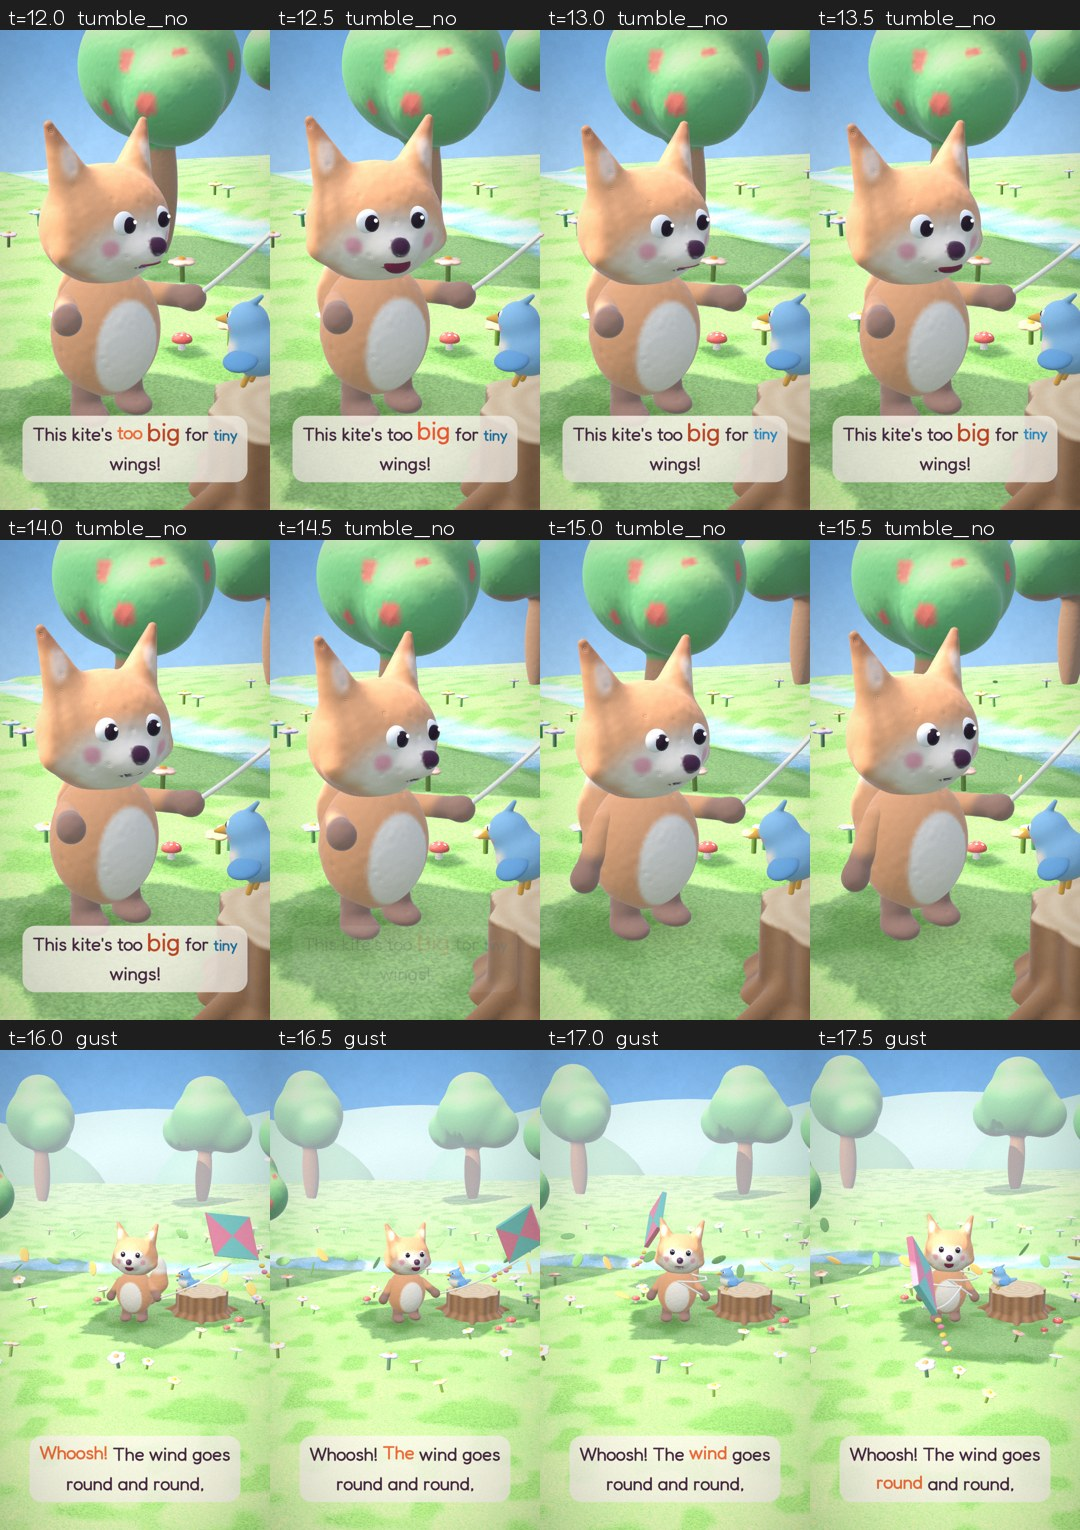
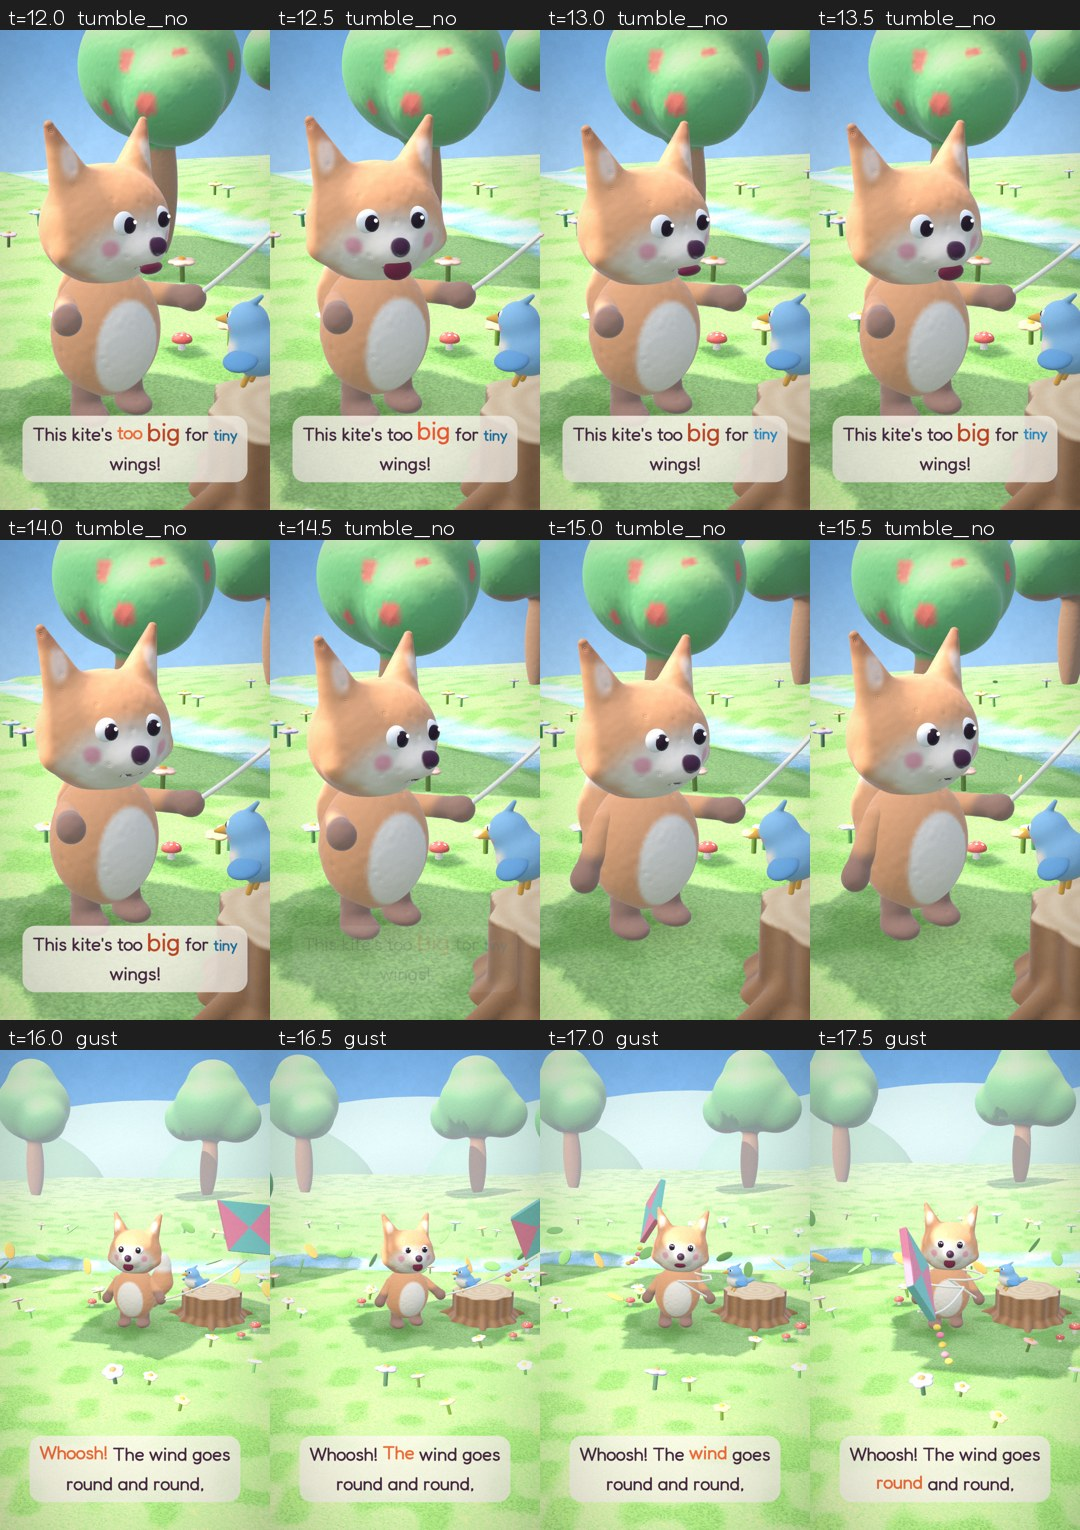
Fable 1: reviewer round 5 fixes (button camera follows the kite, finer head mesh, clean mouth)
Claude-Session: https://claude.ai/code/session_012DiEG3BG1auD4t8c7zPpV2

diff --git a/batches/01-fables-friendship/fable-01-tiny-pip-big-help/code/render.py b/batches/01-fables-friendship/fable-01-tiny-pip-big-help/code/render.py
@@ -299,7 +299,7 @@ def string_path(t, st, mats, kite_p, pip_beak):
 # ---------------- Pip ----------------
 PIP_FOOT = 0.060
 UP = np.array([0, PIP_FOOT, 0])
-PAW_TOP = 0.088
+PAW_TOP = 0.072
 HF_H = 0.42                                    # Pip's high-five hop height
 def _paw_table():
     """local hand height for arm0 side angles (fwd 0.35), to solve the paw raise that meets Pip"""
@@ -385,7 +385,7 @@ def pip_state(t, st, mats):
     if n == "moral":
         a, b = SH[n]
         hand = apply(arms[0], FOXD["arm0"]["hand"])
-        top = hand + np.array([0, 0.095, 0]) + UP
+        top = hand + np.array([0, PAW_TOP, 0]) + UP
         u = clampu(t, a, a + 0.6)
         if u < 1:
             start = on_ground(TPOS[0] + 1.3, TPOS[1] + 0.6)
@@ -404,7 +404,7 @@ def pip_state(t, st, mats):
         return top, 0.35, False, 0.0, True, ex
     # button: Pip grabs the loose string end and flies the kite up
     a, b = SH["button_crane"]
-    p0 = apply(fox_mats(tumble(a - 0.01))[2][0], FOXD["arm0"]["hand"]) + np.array([0, PAW_TOP, 0]) + UP
+    p0 = apply(fox_mats(tumble(a))[2][0], FOXD["arm0"]["hand"]) + np.array([0, PAW_TOP + 0.01, 0]) + UP
     g = GRAB_PT + UP + np.array([0.25, 0.03, 0.0])                           # just beside the string, next to the kite
     if t < a + GRAB:                                                        # round behind his head, then down to the string by the kite
         u = clampu(t, a, a + GRAB)
@@ -450,7 +450,7 @@ def camera(t):
         return fit_cam(tgt, lerp(64, 58, e), 14, 0.95, 1.3, fov=36, lift=0.1 if not WIDE else 0.06)
     if name == "gust":                                                      # wide low angle, slow push-in
         e = ease(u)
-        return fit_cam(np.array([TPOS[0], lerp(1.6, 1.3, e), TPOS[1]]), 4, lerp(16, 20, e), lerp(3.0, 2.3, e), lerp(2.6, 2.0, e))
+        return fit_cam(np.array([TPOS[0], lerp(1.5, 1.25, e), TPOS[1]]), 4, lerp(16, 20, e), lerp(2.6, 2.0, e), lerp(2.6, 2.0, e))
     if name == "topple":                                                    # medium side
         return fit_cam(np.array([TPOS[0], 0.85, TPOS[1]]), 28, 6, 1.5, 1.35)
     if name == "overhead_tangled":                                          # top-down: wrapped like a parcel
@@ -473,9 +473,13 @@ def camera(t):
         return fit_cam(np.array([TPOS[0] + 0.35, lerp(1.35, 1.45, e), TPOS[1]]), lerp(12, 6, e), 5, lerp(1.25, 1.05, e), lerp(1.4, 1.1, e))
     if name == "chorus":                                                    # medium front, both in frame for the dance
         return fit_cam(np.array([TPOS[0] + 0.35, 1.2, TPOS[1]]), 6, 6, 1.3, 1.35)
-    # button: crane up following the kite
+    # button: crane up, keeping Tumble, Pip and the climbing kite all in frame
     e = ease(u)
-    return fit_cam(np.array([TPOS[0] + 0.1, lerp(1.2, 2.6, e), TPOS[1] - 0.5]), 4, lerp(4, 18, e), lerp(1.7, 2.6, e), lerp(1.8, 2.6, e), lift=0.06)
+    kp, _ = kite_state(t, st)
+    cx = (st["x"] + kp[0]) / 2; cz = (st["z"] + kp[2]) / 2
+    hw = max(1.7, abs(kp[0] - st["x"]) / 2 + 0.9)
+    top = max(2.4, kp[1] + 0.7)
+    return fit_cam(np.array([cx, top / 2, cz]), 4, lerp(4, 10, e), hw, top / 2 + 0.25, lift=0.0 if not WIDE else -0.08)
 
 # ---------------- render ----------------
 LDIR = np.array([-0.55, 0.85, 0.5]); LDIR /= np.linalg.norm(LDIR)
@@ -549,7 +553,7 @@ def build_draws(t):
     fi_ = min(int(t * FPS), len(MOUTH["tumble"]) - 1)
     mo = MOUTH["tumble"][fi_]
     if mo > 0.06:
-        draws.append((PR["mouth"], Mh @ trans(*(np.array(FOXD["mouth"]["c"]) + np.array([0, 0.005, 0.03]))) @ scale(0.095, 0.075 * mo, 0.04), U(mat=2, bump=0.0), False))
+        draws.append((PR["mouth"], Mh @ trans(*(np.array(FOXD["mouth"]["c"]) + np.array([0, -0.025, 0.035]))) @ scale(0.1, 0.035 + 0.05 * mo, 0.045), U(mat=2, bump=0.0), False))   # one mouth, covering the carved smile while singing
     if st["lie"] < 0.5: contacts.append((st["x"], st["z"], 0.75, max(0.0, 1 - st["y"] * 1.5)))
     else: contacts.append((st["x"] - 0.4, st["z"], 1.0, 1.0))
     # ---- Pip ----

diff --git a/batches/01-fables-friendship/fable-01-tiny-pip-big-help/code/meshes.py b/batches/01-fables-friendship/fable-01-tiny-pip-big-help/code/meshes.py
@@ -132,7 +132,7 @@ def make_fox():
         ring = np.abs(np.sqrt(q_y ** 2 + q_x ** 2) - 0.07); ang = np.arctan2(q_y, q_x)
         arcd = np.where((ang < -0.4) & (ang > -2.75), ring, 9.0)
         return mixc(c, PLUM, sstep(0.03, 0.018, arcd) * (P[..., 2] > 0.38))
-    parts["head"] = dict(mesh=mesh_sdf(head_f, head_col, (-0.75, 0.9, -0.6), (0.75, 2.3, 0.75), step=0.018), pivot=(0.0, 1.1, 0.0))
+    parts["head"] = dict(mesh=mesh_sdf(head_f, head_col, (-0.75, 0.9, -0.6), (0.75, 2.3, 0.75), step=0.009), pivot=(0.0, 1.1, 0.0))
     parts["eyes"] = dict(centers=[(0.17, 1.52, 0.37), (-0.17, 1.52, 0.37)], r=0.085, pivot=(0.0, 1.1, 0.0))
     parts["mouth"] = dict(c=(0.0, 1.235, 0.43), pivot=(0.0, 1.1, 0.0))
     pts = [(0.0, 0.42, -0.3), (0.12, 0.42, -0.62), (0.26, 0.7, -0.82), (0.3, 1.05, -0.84)]
